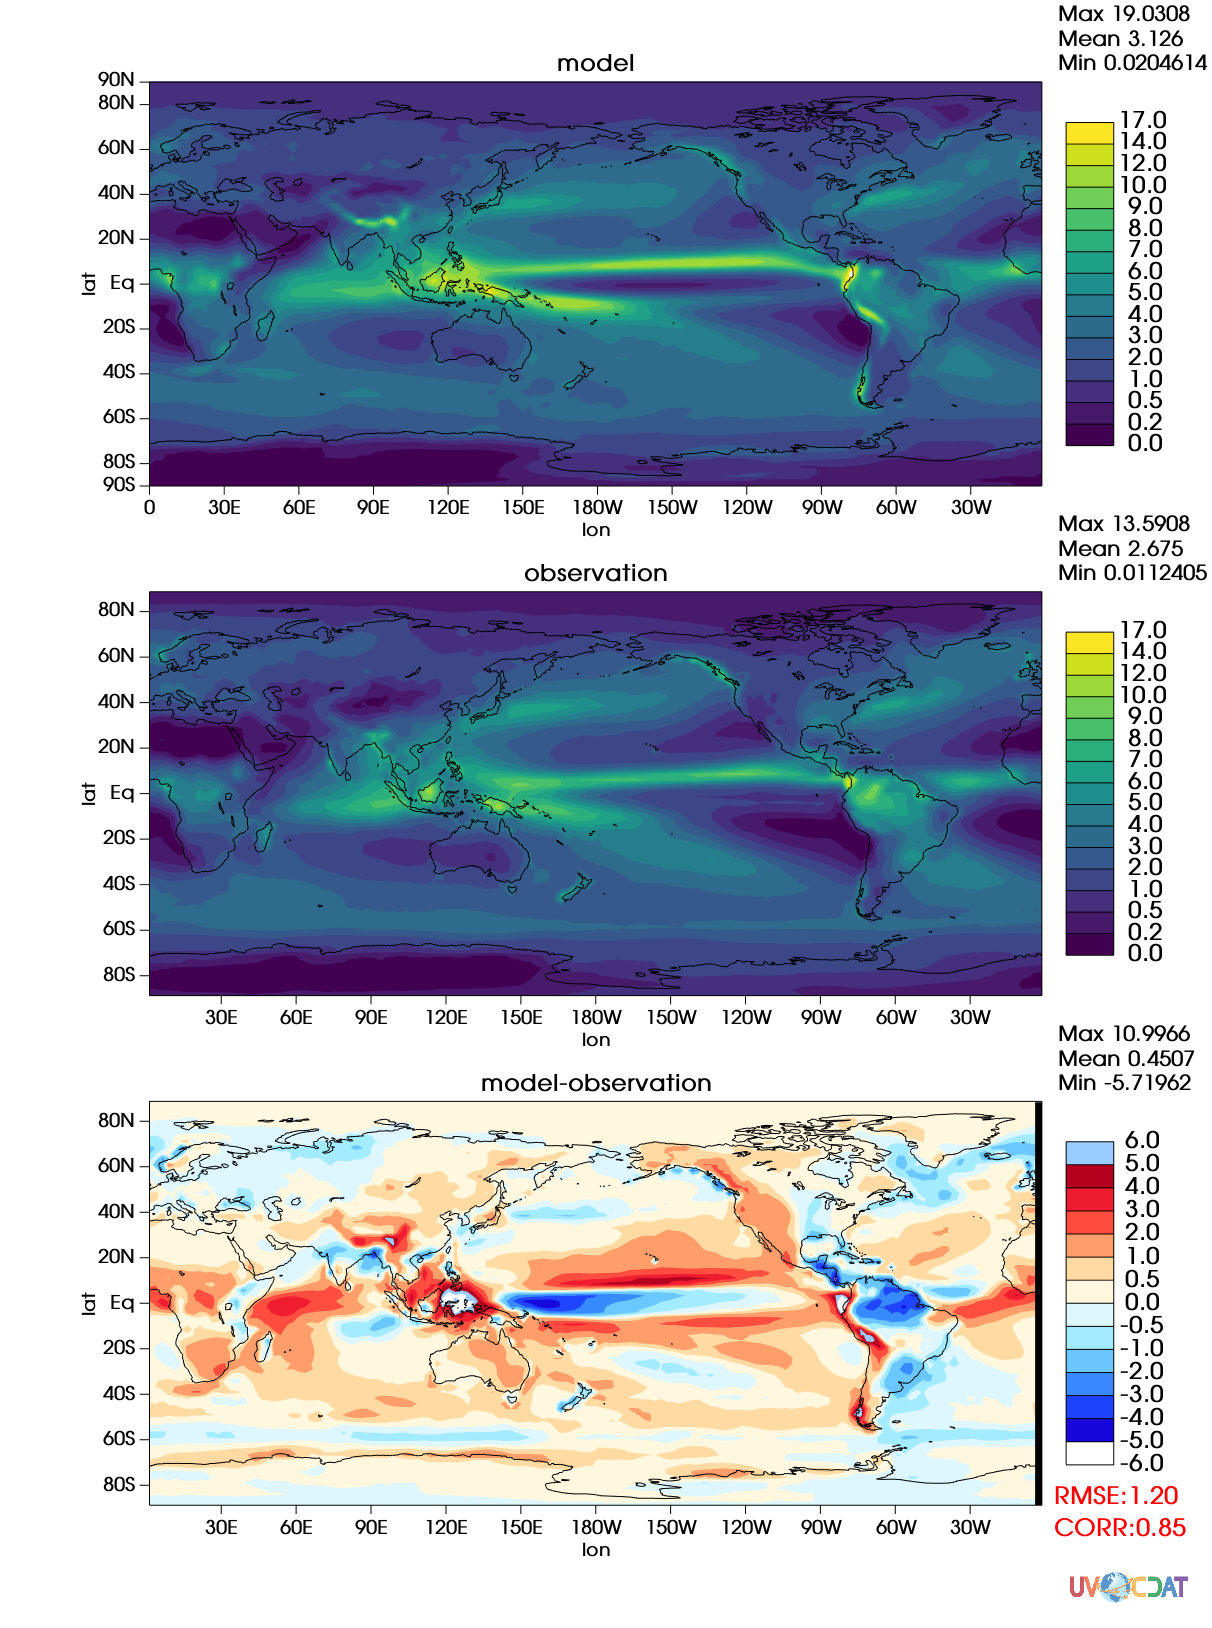
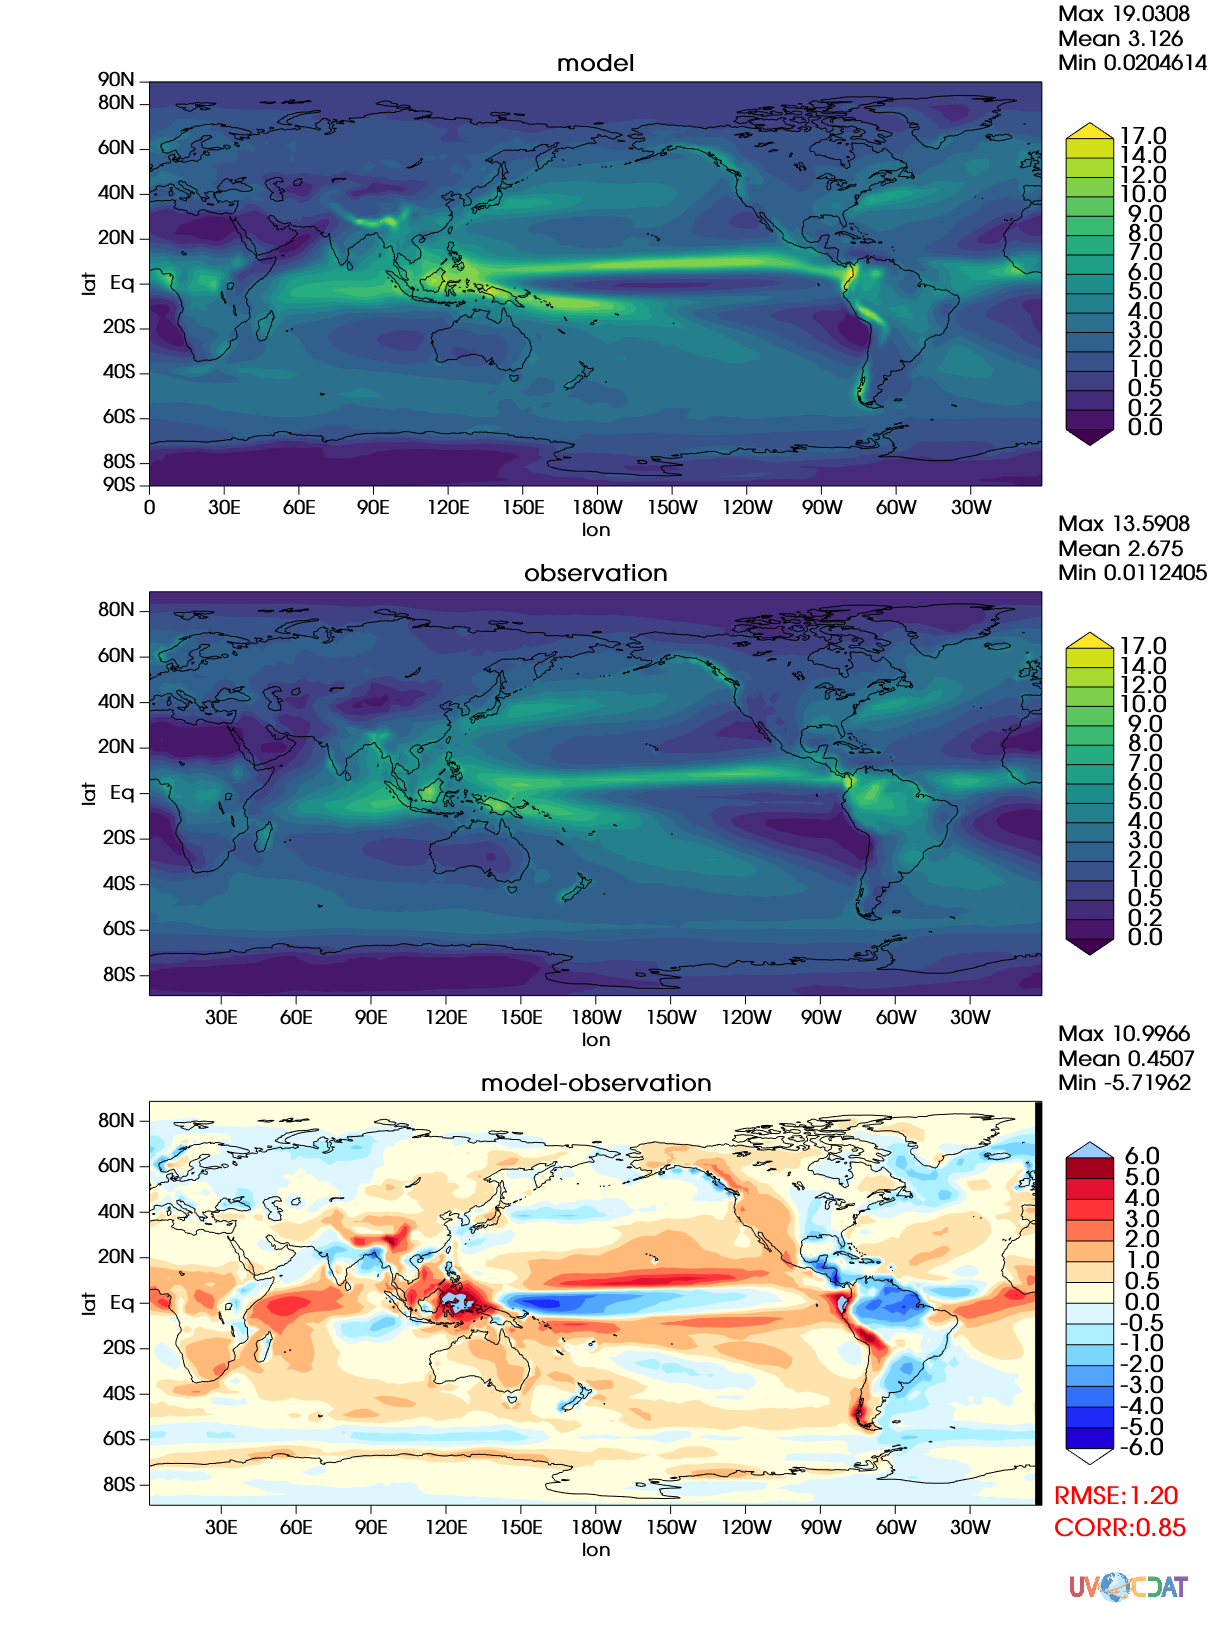
Arrows working.

diff --git a/acme_diags/jill_test/set5_ANN_PRECT_GPCP_model_better.py b/acme_diags/jill_test/set5_ANN_PRECT_GPCP_model_better.py
@@ -25,10 +25,10 @@ def compute_corr(model, obs):
         print err
     return corr
 
-#reference_data_path='/space1/test_data/obs_for_diagnostics/'  # observation
-#test_data_path='/space/golaz1/ACME_simulations/20160520.A_WCYCL1850.ne30_oEC.edison.alpha6_01/pp/clim_rgr/0070-0099/'  # model
-reference_data_path='../'
-test_data_path='../'
+reference_data_path='/space1/test_data/obs_for_diagnostics/'  # observation
+test_data_path='/space/golaz1/ACME_simulations/20160520.A_WCYCL1850.ne30_oEC.edison.alpha6_01/pp/clim_rgr/0070-0099/'  # model
+#reference_data_path='../'
+#test_data_path='../'
 
 #Read in data
 reference_data_set='GPCP_v2.2_ANN_climo.nc'  # observation
@@ -90,15 +90,23 @@ template_0.title.priority=1
 template_1.title.priority=1
 template_2.title.priority=1
 
+# model and observation graph
 isofill = x.createisofill()
 isofill.levels=[0,0.2, 0.5, 1, 2, 3, 4, 5, 6, 7, 8, 9, 10, 12, 14, 17]
-#x.setcolormap('rainbow')
+#ext_1 and ext_2 are arrows
+isofill.ext_1 = True
+isofill.ext_2 = True
+
 x.plot(mod_pr, template_0, isofill)
-
-isofill = x.createisofill()
-isofill.levels=[0,0.2, 0.5, 1, 2, 3, 4, 5, 6, 7, 8, 9, 10, 12, 14, 17]
-
 x.plot(obs_pr, template_1, isofill)
+
+# difference graph
+isofill.levels=[-6, -5, -4, -3, -2, -1,-0.5, 0, 0.5, 1, 2, 3, 4, 5, 6]
+# After you set arrows, need to enable arrows again
+isofill.ext_1 = True
+isofill.ext_2 = True
+isofill.colormap = x.getcolormap('bl_to_darkred')
+x.plot(dif_pr, template_2, isofill)
 
 #output rmse and corr
 out_1=vcs.createtext()
@@ -111,12 +119,5 @@ x.plot(out_1)
 out_1.y=0.06
 out_1.string=corr
 x.plot(out_1)
-
-
-isofill = x.createisofill()
-isofill.levels=[-6, -5, -4, -3, -2, -1,-0.5, 0, 0.5, 1, 2, 3, 4, 5, 6]
-colormap = x.getcolormap('bl_to_darkred')
-isofill.colormap = colormap
-x.plot(dif_pr, template_2, isofill)
 
 x.png('test.png')
